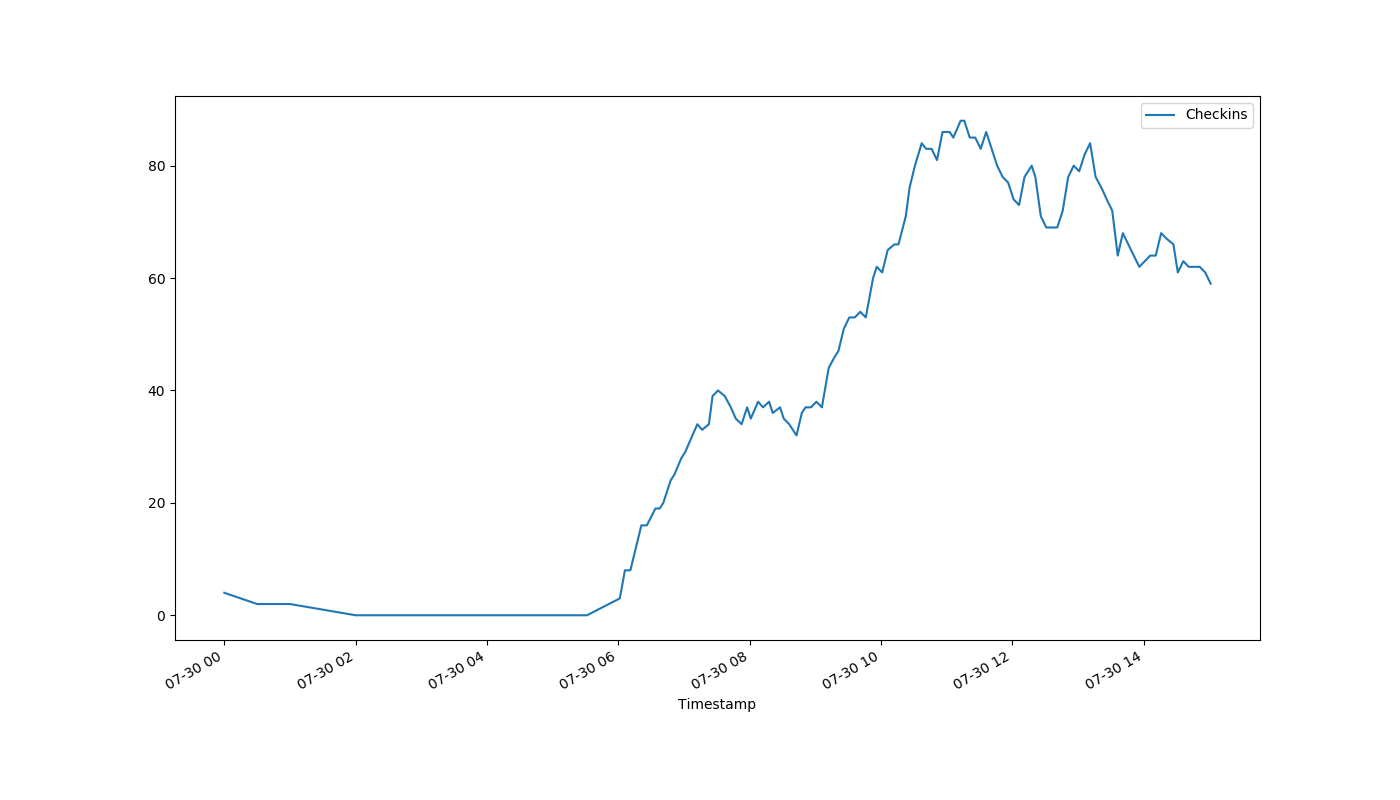
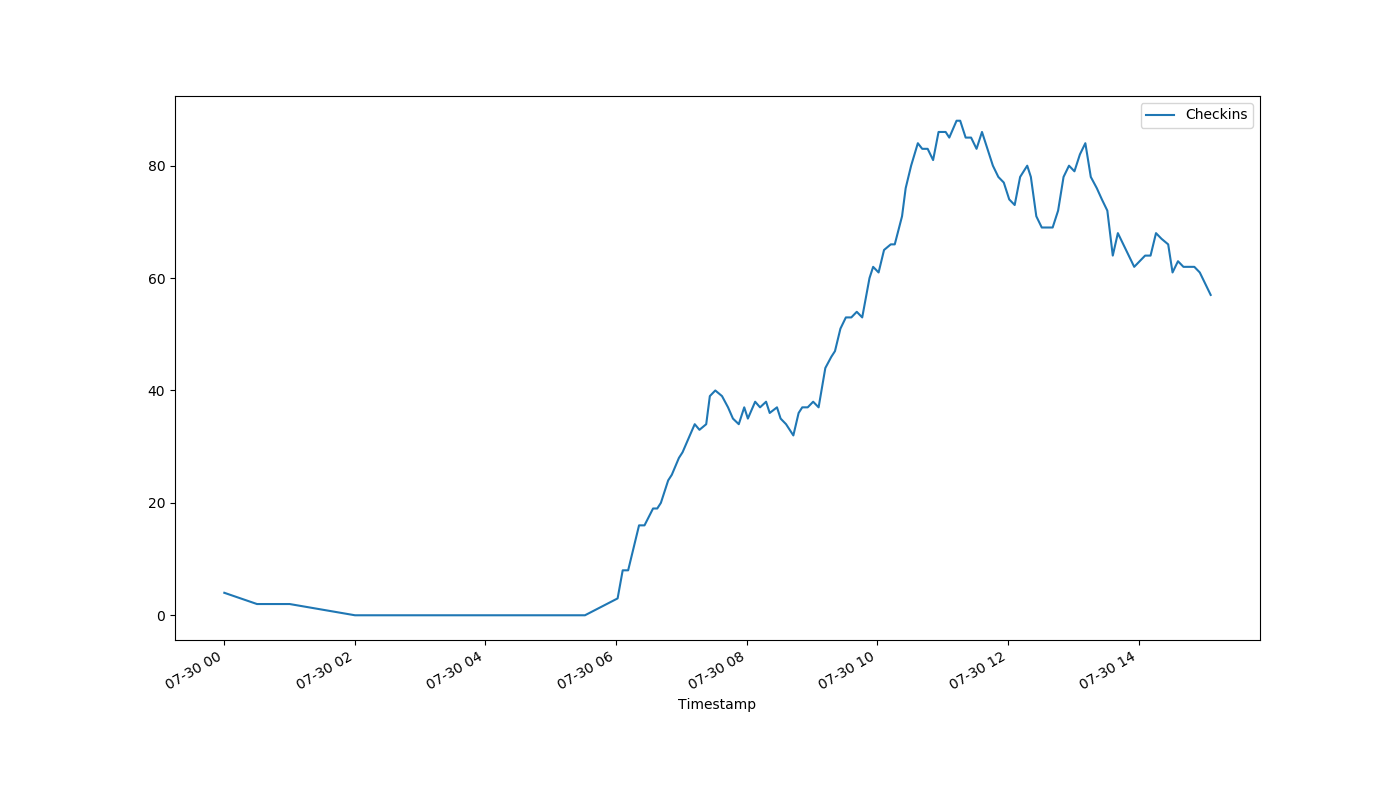
auto-Jul-30-15:06:35

diff --git a/index.html b/index.html
@@ -1,1 +1,1 @@
-<!DOCTYPE html><html><head><meta http-equiv="refresh" content="30"><link rel='stylesheet' href='holmcurrent.css'></head><body><p id='count'>59</p><div id='graph-wrap'><img id='graph' src='holmgraph-Jul-30.png'></div><p id='updated'>Last updated 15:01:17 / 15:01:15</p></body></html>
+<!DOCTYPE html><html><head><meta http-equiv="refresh" content="30"><link rel='stylesheet' href='holmcurrent.css'></head><body><p id='count'>57</p><div id='graph-wrap'><img id='graph' src='holmgraph-Jul-30.png'></div><p id='updated'>Last updated 15:06:17 / 15:06:16</p></body></html>
